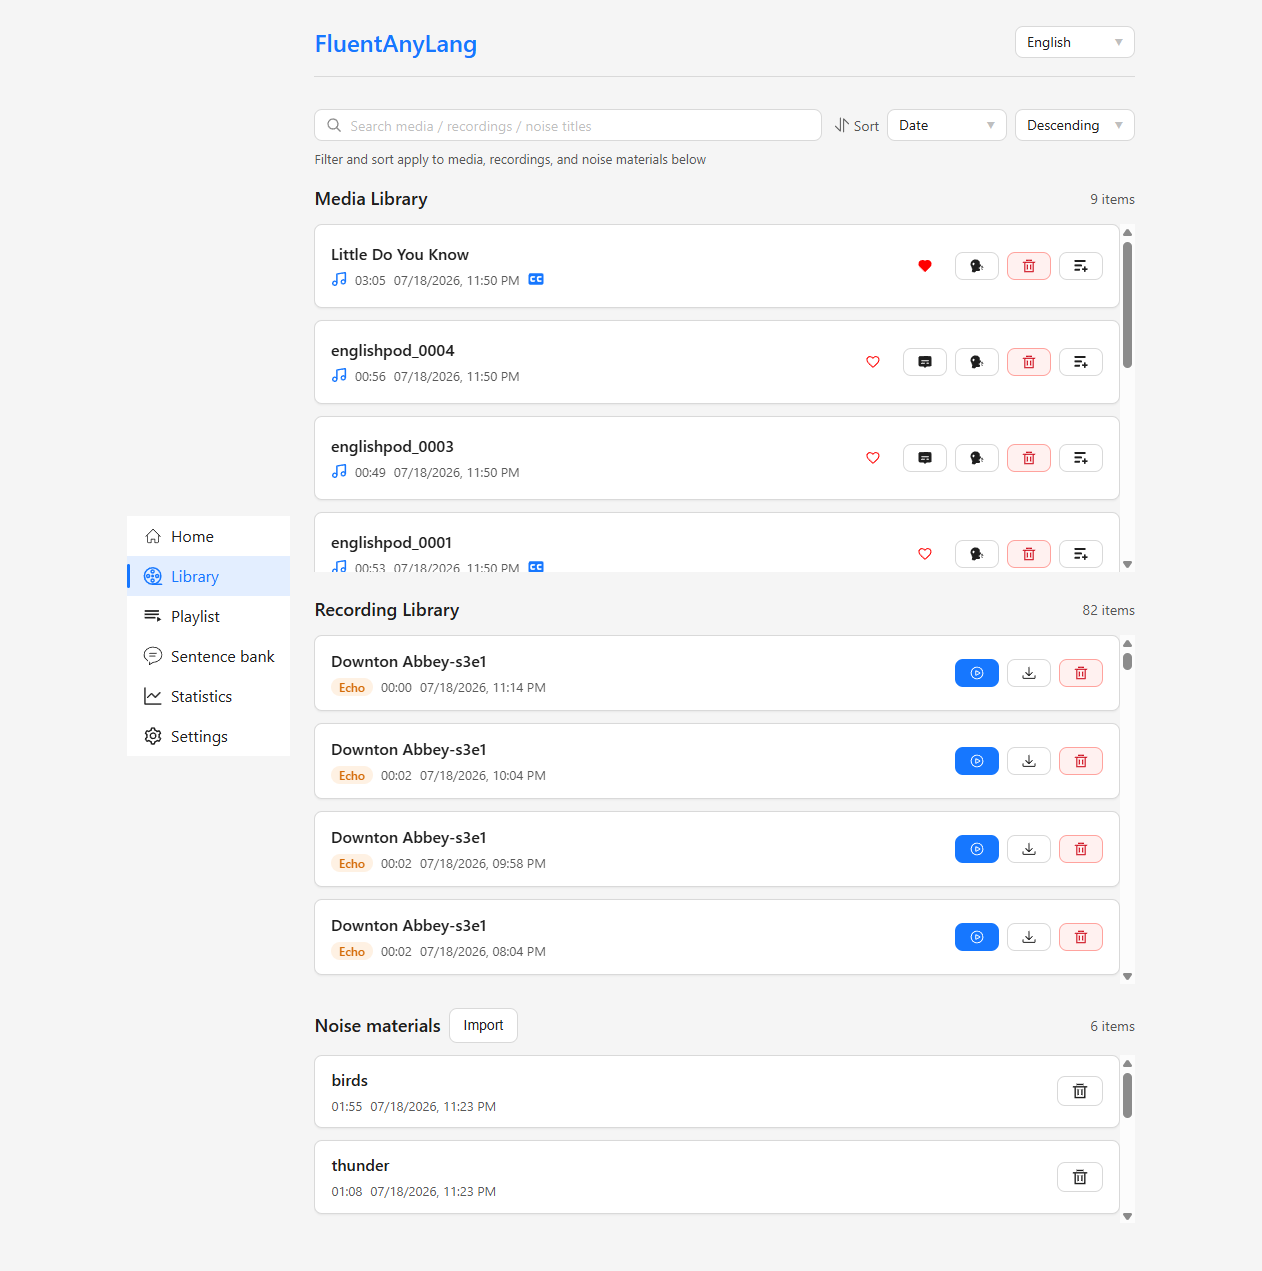
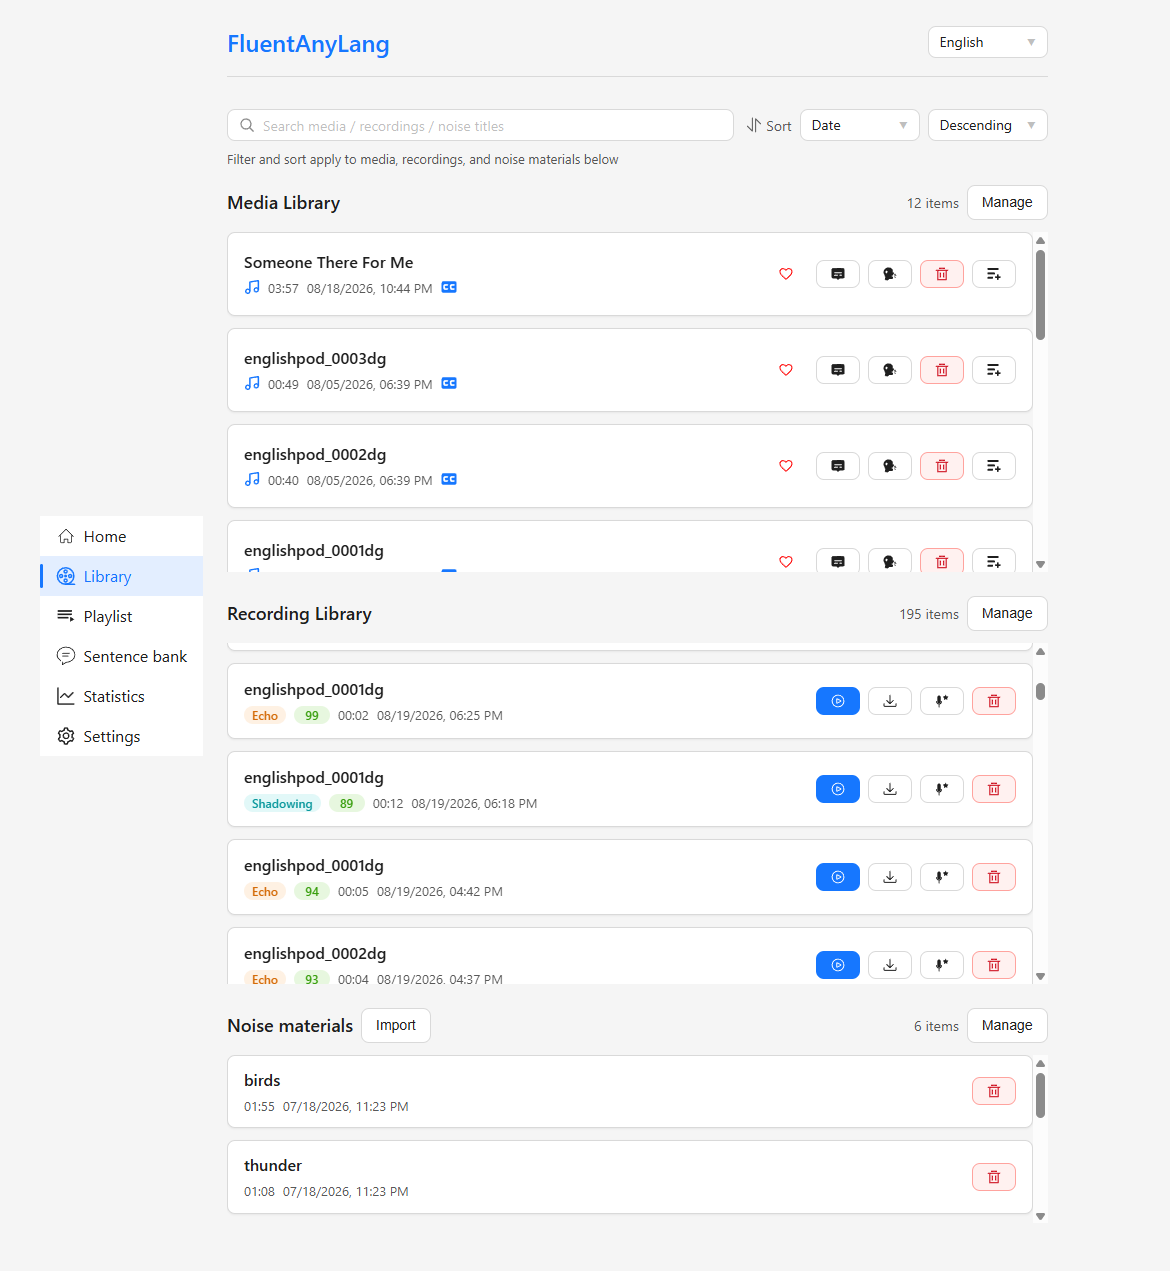
docs: update README and translations to clarify optional pronunciation scoring

diff --git a/README.md b/README.md
@@ -2,7 +2,7 @@
 
 **English** | [中文](./README.zh-CN.md)
 
-Bring your own audio or video — any language, any material — and practice listening and speaking **sentence by sentence**. Everything stays on your device: no account, no cloud upload.
+Bring your own audio or video — any language, any material — and practice listening and speaking **sentence by sentence**. Everything stays on your device by default: no account, no cloud upload (unless you opt into experimental pronunciation scoring).
 
 **[Live Demo](https://fal.jimelijah.com/)** · [GitHub](https://github.com/Jim-Elijah/fluent-any-lang)
 
@@ -12,7 +12,7 @@ Most language apps lock you into their curriculum. FluentAnyLang is built for **
 
 - **Your materials, any language** — Import audio/video with `.srt` / `.lrc` subtitles (add later if needed). Bilingual lines are supported.
 - **Sentence-driven practice** — Jump, loop, or pause by subtitle line; speaking modes tie every take to the exact sentence.
-- **Local-first & private** — Media, recordings, and stats live in IndexedDB. Export a ZIP backup to migrate devices; nothing is uploaded to a server.
+- **Local-first & private** — Media, recordings, and stats live in IndexedDB. Export a ZIP backup to migrate devices; nothing is uploaded unless you opt into experimental pronunciation scoring.
 - **Installable PWA** — Add to home screen or desktop; app shell works offline after the first visit. Updates are prompted so practice is not interrupted mid-session.
 
 ## Features
@@ -30,6 +30,7 @@ Most language apps lock you into their curriculum. FluentAnyLang is built for **
 - **Shadowing** — Record in sync with the original, with countdown cues and a live waveform; choose inter-sentence gaps as “compress to ~1s” or “preserve full gaps” in Settings.
 - **Echo** — Hear the line first, then record; keep multiple takes per sentence and pick the best.
 - **Compare takes** — Play source only, recording only, or compare (sentence-aligned **sync** when gaps were compressed; **continuous compare** when full gaps were preserved); click the waveform to seek and play.
+- **Pronunciation score (optional, experimental)** — On-demand scoring after a take. Requires an API URL and API key in Settings. The scoring service is **not publicly available**; contact the developer if you want to try it. Enabling scoring uploads your recording (and, for Echo "Match reference", may also send a reference clip) to the configured server; the server uses a self-hosted scoring model, does not keep audio, and scores stay on your device.
 
 ### Library & progress
 
@@ -48,6 +49,8 @@ Most language apps lock you into their curriculum. FluentAnyLang is built for **
 
 ![home-page](./docs/screenshots/home.png)
 ![library-page](./docs/screenshots/library.png)
+![echo-score-match](./docs/screenshots/echo-score-match.png)
+![shadowing-score-natural](./docs/screenshots/shadowing-score-natural.png)
 ![playlist-page](./docs/screenshots/playlist.png)
 ![sentence-bank-page](./docs/screenshots/sentence-bank.png)
 ![statistics-page](./docs/screenshots/statistics.png)
@@ -75,6 +78,8 @@ No install required for everyday use. Prefer headphones for speaking practice, a
 ## Privacy
 
 FluentAnyLang is a client-side app. Practice content and recordings are stored locally in IndexedDB. Clearing site data in the browser removes them — use the built-in ZIP backup if you need to migrate or keep a copy.
+
+**Exception:** Optional pronunciation scoring uploads audio to the server you configure (only when you explicitly score). Audio is not retained on the server; results are stored locally. Without an API key from the developer, this path stays unused.
 
 ## Tech stack
 

diff --git a/README.zh-CN.md b/README.zh-CN.md
@@ -2,7 +2,7 @@
 
 [English](./README.md) | **中文**
 
-导入自己的音视频——任意语言、任意素材——按句练习听说。数据只保存在本机：无需账号，不会上传。
+导入自己的音视频——任意语言、任意素材——按句练习听说。数据默认只保存在本机：无需账号，不会上传（启用实验性录音评分除外）。
 
 **[在线体验](https://fal.jimelijah.com/)** · [GitHub](https://github.com/Jim-Elijah/fluent-any-lang)
 
@@ -12,7 +12,7 @@
 
 - **自有材料、任意语言** — 导入音视频，配套 `.srt` / `.lrc` 字幕（也可稍后补充）；支持双语字幕。
 - **字幕驱动、按句练习** — 按句跳转、循环或句间暂停；口语模式的每一条录音都对齐到精确句子。
-- **本地优先、注重隐私** — 媒体、录音与统计经 IndexedDB 存于浏览器；支持 ZIP 备份迁移，不会上传到服务器。
+- **本地优先、注重隐私** — 媒体、录音与统计经 IndexedDB 存于浏览器；支持 ZIP 备份迁移；默认不上传，启用实验性录音评分除外。
 - **可安装 PWA** — 添加到主屏幕或桌面；首次访问后应用壳可离线打开。新版本会提示确认后再更新，避免打断练习。
 
 ## 功能特色
@@ -30,6 +30,7 @@
 - **影子跟读（Shadowing）** — 与原音同步录音，支持倒计时提醒与实时波形；可在设置中选择句间空隙「压缩为约 1 秒」或「保留完整间隙」。
 - **回声跟读（Echo）** — 先听原句再录音；每句可保留多条录音并择优复习。
 - **录音对照** — 仅原音、仅录音，或对照播放（压缩空隙时**按句对齐同步**；保留完整间隙时为**连续对照听**）；可点击波形跳转并播放。
+- **录音评分（可选、实验性）** — 录完后按需评分。需在设置中填写评分 API 地址与 API Key。评分服务**暂不对外开放**；若想体验可联系开发者。开启后，评分时会将录音上传至所配置服务器（回声跟读选「像原声」时还可能上传参考片段）；服务端为自建评分算法，不保留录音，分数仅存本机。
 
 ### 媒体库与进度
 
@@ -48,6 +49,8 @@
 
 ![home-page](./docs/screenshots/home.png)
 ![library-page](./docs/screenshots/library.png)
+![echo-score-match](./docs/screenshots/echo-score-match.png)
+![shadowing-score-natural](./docs/screenshots/shadowing-score-natural.png)
 ![playlist-page](./docs/screenshots/playlist.png)
 ![sentence-bank-page](./docs/screenshots/sentence-bank.png)
 ![statistics-page](./docs/screenshots/statistics.png)
@@ -74,6 +77,8 @@
 ## 隐私说明
 
 FluentAnyLang 为纯前端应用。练习内容与录音保存在本地 IndexedDB。清除网站数据会删除它们；如需迁移或备份，请使用内置 ZIP 备份。
+
+**例外：** 可选的录音评分仅在你主动评分时，将音频上传至所配置服务器。服务端不保留录音；结果只存在本机。未从开发者处获得 API Key 时，不会走这条路径。
 
 ## 技术栈
 
